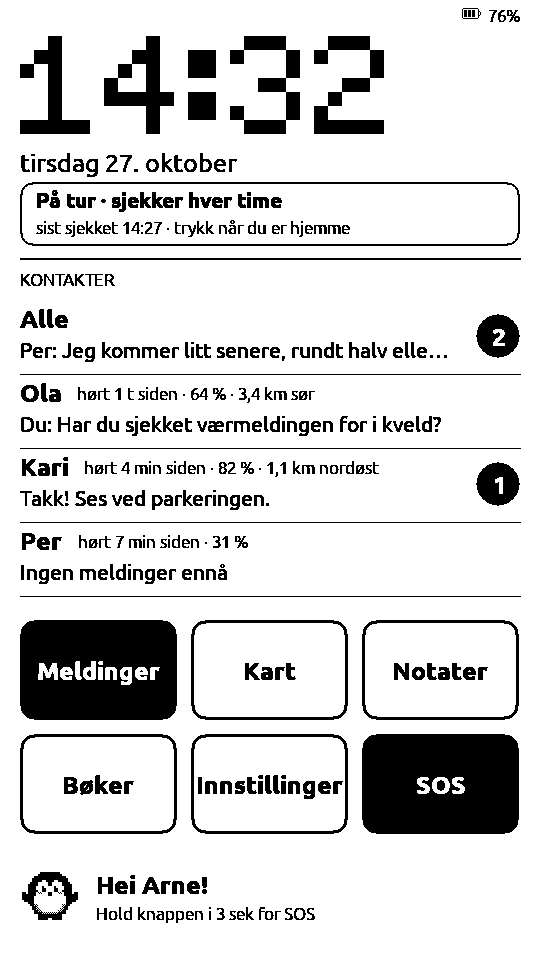
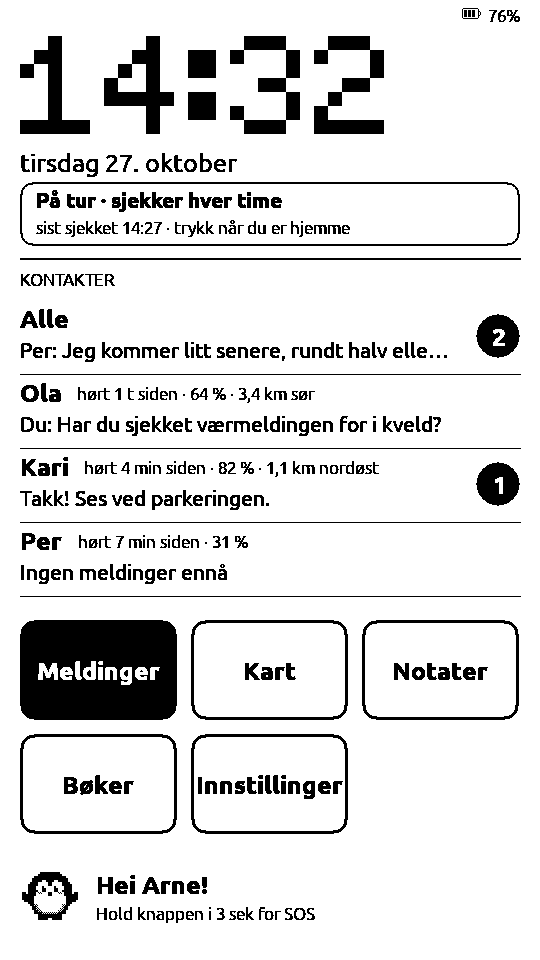
SOS: no button on Hjem; 10 s to stop it after holding the button
Claude-Session: https://claude.ai/code/session_011r6JE9xx7HU915R5KmGowB

Changed region(s): [[0.6519, 0.75, 0.9778, 0.875]]

diff --git a/src/apps/sos/SosAlertActivity.cpp b/src/apps/sos/SosAlertActivity.cpp
@@ -1,7 +1,10 @@
 #include "SosAlertActivity.h"
 
 #include <GfxRenderer.h>
+#include <HalDisplay.h>
 
+#include <algorithm>
+#include <cstdio>
 #include <vector>
 
 #include "apps/messages/MeshUi.h"
@@ -26,18 +29,44 @@ void whiteButton(const GfxRenderer& renderer, const int y, const char* label) {
 
 // --- My SOS ---------------------------------------------------------------------
 
-SosActivity::SosActivity(GfxRenderer& renderer, MappedInputManager& mappedInput)
-    : Activity("Sos", renderer, mappedInput) {}
+namespace {
+constexpr unsigned long COUNTDOWN_MS = 10000;
+}
+
+SosActivity::SosActivity(GfxRenderer& renderer, MappedInputManager& mappedInput, const bool countdown)
+    : Activity("Sos", renderer, mappedInput), countdownFrom(countdown ? 1 : 0) {}
 
 void SosActivity::onEnter() {
   Activity::onEnter();
-  node().startSos();
+  if (countdownFrom && !node().sosActive()) {
+    countdownFrom = millis() ? millis() : 1;
+  } else {
+    countdownFrom = 0;
+    node().startSos();
+  }
   requestUpdate();
 }
 
 void SosActivity::loop() {
   using Button = MappedInputManager::Button;
   int x = 0, y = 0;
+  if (countdownFrom) {
+    // Any button or tap stops it; nothing has been sent.
+    if (mappedInput.wasScreenTapped(x, y) || mappedInput.wasReleased(Button::Confirm) ||
+        mappedInput.wasReleased(Button::Back) || mappedInput.wasHomeGesture()) {
+      activityManager.goHome();
+      return;
+    }
+    const unsigned long elapsed = millis() - countdownFrom;
+    if (elapsed >= COUNTDOWN_MS) {
+      countdownFrom = 0;
+      node().startSos();
+      requestUpdate();
+    } else if (int(COUNTDOWN_MS - elapsed + 999) / 1000 != shownSeconds) {
+      requestUpdate();
+    }
+    return;
+  }
   if (mappedInput.wasScreenTapped(x, y) && y >= cancelY && y < cancelY + 90) {
     node().cancelSos();
     activityManager.goHome();
@@ -55,6 +84,20 @@ void SosActivity::loop() {
 void SosActivity::render(RenderLock&&) {
   const int width = renderer.getScreenWidth();
   const int height = renderer.getScreenHeight();
+  if (countdownFrom) {
+    // "SOS om 7 s": nothing sent yet.
+    shownSeconds = int(COUNTDOWN_MS - std::min(COUNTDOWN_MS, millis() - countdownFrom) + 999) / 1000;
+    renderer.clearScreen();
+    renderer.fillRect(0, 0, width, height, true);
+    waddle::drawPixelText(renderer, (width - waddle::pixelTextWidth("SOS", 20)) / 2, 160, "SOS", 20, false);
+    char line[32];
+    snprintf(line, sizeof(line), "Sendes om %d s", shownSeconds);
+    renderer.drawCenteredText(UI_12_FONT_ID, 330, line, false, EpdFontFamily::BOLD);
+    renderer.drawCenteredText(UI_12_FONT_ID, 370, "Trykk hvor som helst for å stoppe", false);
+    whiteButton(renderer, height - 220, "Stopp");
+    renderer.displayBuffer(HalDisplay::FAST_REFRESH);
+    return;
+  }
   drawnAt = millis();
   shownChanges = node().changes();
   renderer.clearScreen();

diff --git a/src/products/t5s3/T5HomeActivity.cpp b/src/products/t5s3/T5HomeActivity.cpp
@@ -65,6 +65,9 @@ void T5HomeActivity::onEnter() {
 bool T5HomeActivity::available(const int target) const {
   if (target >= T_CHAT_1 && target <= T_CHAT_4) return target - T_CHAT_1 < chatCount;
   if (target == T_MODE) return node().configured();
+  // No SOS button to bump into: only while one is on, to stop it. Holding the
+  // button 3 s starts one (with 10 s to change your mind).
+  if (target == T_SOS) return node().sosActive();
   return target >= 0 && target < T_COUNT;
 }
 
@@ -239,6 +242,10 @@ void T5HomeActivity::render(RenderLock&&) {
   for (int i = 0; i < 6; i++) {
     const int target = T_MESSAGES + i;
     Box& b = boxes[target];
+    if (!available(target)) {
+      b = {};
+      continue;
+    }
     b = {SIDE + (i % 3) * (bw + 14), gridY + (i / 3) * (bh + 14), bw, bh};
     const bool filled = target == T_SOS || focus == target;
     if (filled) {

diff --git a/src/apps/sos/SosAlertActivity.h b/src/apps/sos/SosAlertActivity.h
@@ -6,7 +6,9 @@
 // button on Hjem): black screen, sent again every minute until "Avbryt SOS".
 class SosActivity final : public Activity {
  public:
-  SosActivity(GfxRenderer& renderer, MappedInputManager& mappedInput);
+  // countdown: started by holding the button, so it waits 10 s (any press stops
+  // it) before sending, in case the button was pressed by accident.
+  SosActivity(GfxRenderer& renderer, MappedInputManager& mappedInput, bool countdown = false);
   void onEnter() override;
   void loop() override;
   void render(RenderLock&&) override;
@@ -14,6 +16,8 @@ class SosActivity final : public Activity {
 
  private:
   int cancelY = 0;
+  unsigned long countdownFrom = 0;  // millis() when the countdown began; 0 = sending
+  int shownSeconds = -1;
   unsigned long drawnAt = 0;
   uint32_t shownChanges = 0;
 };

diff --git a/test/screens/screens.cpp b/test/screens/screens.cpp
@@ -537,6 +537,11 @@ int main(int argc, char** argv) {
     show(alert, "t5-sos-varsel");
   }
   {
+    // Held the button 3 s: 10 s to stop it before anything is sent (3 s gone).
+    SosActivity countdown(renderer, mappedInputManager, true);
+    show(countdown, "t5-sos-nedtelling", [](Activity&) { sim::nowMs += 3000; });
+  }
+  {
     // My own SOS: sent, received by Kari and the server, seen by Kari.
     SosActivity sos(renderer, mappedInputManager);
     show(sos, "t5-sos", [](Activity&) {

diff --git a/src/products/t5s3/Product.cpp b/src/products/t5s3/Product.cpp
@@ -56,7 +56,7 @@ void loop() {
     if (!sosFromButton && !node.sosActive() && node.configured() && millis() - userButtonSince >= SOS_HOLD_MS) {
       sosFromButton = true;
       activityManager.replaceActivity(
-          std::make_unique<SosActivity>(activityManager.getRenderer(), activityManager.getMappedInput()));
+          std::make_unique<SosActivity>(activityManager.getRenderer(), activityManager.getMappedInput(), true));
     }
   } else {
     userButtonSince = 0;
